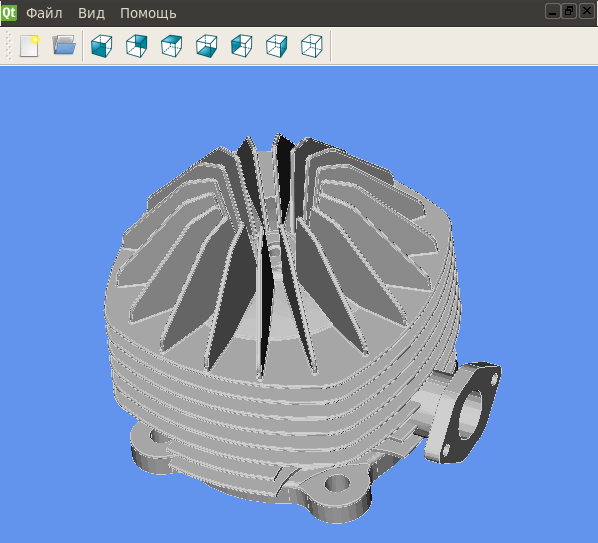
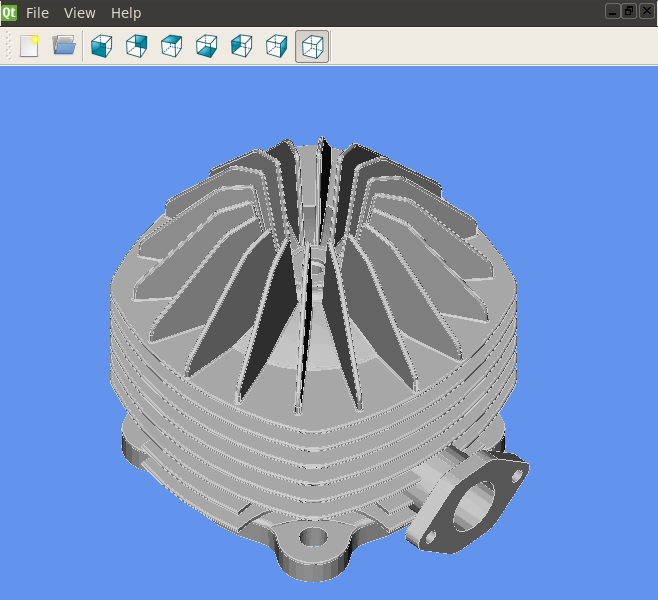
View commands. Rename command names. New screenshot

Changed region(s): [[0.1505, 0.2063, 0.8428, 0.9724], [0.0, 0.0, 1.0, 0.1473]]

diff --git a/src/gui/mainwindow_ui.cpp b/src/gui/mainwindow_ui.cpp
@@ -45,7 +45,7 @@ void MainWindow::createUI() {
     connect(mdiArea, SIGNAL(subWindowActivated(QMdiSubWindow*)),
         this, SLOT(childWindowActivated(QMdiSubWindow*)));
 
-    commandDock = new QDockWidget(tr("Команда"), this);
+    commandDock = new QDockWidget(tr("Command"), this);
     commandDock->setVisible(false);
     commandDock->setFeatures(QDockWidget::NoDockWidgetFeatures);
     commandDock->setAllowedAreas(Qt::RightDockWidgetArea);
@@ -58,7 +58,7 @@ void MainWindow::createUI() {
 }
 
 void MainWindow::createDockWidget() {
-    shapesDock = new QDockWidget(tr("Объекты"), this);
+    shapesDock = new QDockWidget(tr("Objects"), this);
     shapesDock->setAllowedAreas(Qt::LeftDockWidgetArea | Qt::RightDockWidgetArea);
     addDockWidget(Qt::LeftDockWidgetArea, shapesDock);
 
@@ -75,7 +75,7 @@ void MainWindow::createMenu() {
     setMenuBar(mainMenuBar);
 
     fileMenu = new QMenu(mainMenuBar);
-    fileMenu->setTitle(tr("Файл"));
+    fileMenu->setTitle(tr("File"));
     mainMenuBar->addMenu(fileMenu);
 
     /*QMenu* selectionMenu = new QMenu(mainMenuBar);
@@ -115,11 +115,11 @@ void MainWindow::createMenu() {
     selectionGroup->addAction(acSelectSolid);*/
 
     viewMenu = new QMenu(mainMenuBar);
-    viewMenu->setTitle(tr("Вид"));
+    viewMenu->setTitle(tr("View"));
     mainMenuBar->addMenu(viewMenu);
 
     helpMenu = new QMenu(mainMenuBar);
-    helpMenu->setTitle(tr("Помощь"));
+    helpMenu->setTitle(tr("Help"));
     mainMenuBar->addMenu(helpMenu);
 
     mainToolBar = new QToolBar(this);
@@ -129,13 +129,13 @@ void MainWindow::createMenu() {
 void MainWindow::createCommonActions() {
     acListViewType = new ActionList(this);
 
-    QAction* acExit = new QAction(tr("Выход"), this);
+    QAction* acExit = new QAction(tr("Exit"), this);
     connect(acExit, SIGNAL(triggered(bool)), qApp, SLOT(quit()));
 
-    QAction* acOpenModel = new QAction(QIcon(":/icons/open_document.png"), tr("Открыть..."), this);
+    QAction* acOpenModel = new QAction(QIcon(":/icons/open_document.png"), tr("Open..."), this);
     connect(acOpenModel, SIGNAL(triggered(bool)), this, SLOT(openModel()));
 
-    QAction* acNewModel = new QAction(QIcon(":/icons/new_document.png"), tr("Новый"), this);
+    QAction* acNewModel = new QAction(QIcon(":/icons/new_document.png"), tr("New"), this);
     connect(acNewModel, SIGNAL(triggered(bool)), this, SLOT(newChildWindow()));
 
     fileMenu->addAction(acNewModel);
@@ -147,7 +147,7 @@ void MainWindow::createCommonActions() {
     mainToolBar->addAction(acOpenModel);
     mainToolBar->addSeparator();
 
-    QAction* acAbout = new QAction(tr("О программе..."), this);
+    QAction* acAbout = new QAction(tr("About..."), this);
     connect(acAbout, SIGNAL(triggered(bool)), this, SLOT(about()));
     helpMenu->addAction(acAbout);
 }
@@ -155,7 +155,7 @@ void MainWindow::createCommonActions() {
 void MainWindow::createViewActions() {
     QActionGroup* viewGroup = new QActionGroup(this);
 
-    QAction* acViewFront = new QAction(QIcon(":/icons/view-front.png"), tr("Спереди"), this);
+    QAction* acViewFront = new QAction(QIcon(":/icons/view-front.png"), tr("Front"), this);
     acViewFront->setCheckable(true);
     viewMenu->addAction(acViewFront);
     connect(acViewFront, SIGNAL(triggered()), this, SLOT(viewFront()));
@@ -163,7 +163,7 @@ void MainWindow::createViewActions() {
     mainToolBar->addAction(acViewFront);
     acListViewType->addAction(acViewFront);
 
-    QAction* acViewBack = new QAction(QIcon(":/icons/view-back.png"), tr("Сзади"), this);
+    QAction* acViewBack = new QAction(QIcon(":/icons/view-back.png"), tr("Back"), this);
     acViewBack->setCheckable(true);
     viewMenu->addAction(acViewBack);
     connect(acViewBack, SIGNAL(triggered()), this, SLOT(viewBack()));
@@ -171,7 +171,7 @@ void MainWindow::createViewActions() {
     mainToolBar->addAction(acViewBack);
     acListViewType->addAction(acViewBack);
 
-    QAction* acViewTop = new QAction(QIcon(":/icons/view-top.png"), tr("Сверху"), this);
+    QAction* acViewTop = new QAction(QIcon(":/icons/view-top.png"), tr("Top"), this);
     acViewTop->setCheckable(true);
     viewMenu->addAction(acViewTop);
     connect(acViewTop, SIGNAL(triggered()), this, SLOT(viewTop()));
@@ -179,7 +179,7 @@ void MainWindow::createViewActions() {
     mainToolBar->addAction(acViewTop);
     acListViewType->addAction(acViewTop);
 
-    QAction* acViewBottom = new QAction(QIcon(":/icons/view-bottom.png"), tr("Снизу"), this);
+    QAction* acViewBottom = new QAction(QIcon(":/icons/view-bottom.png"), tr("Bottom"), this);
     acViewBottom->setCheckable(true);
     viewMenu->addAction(acViewBottom);
     connect(acViewBottom, SIGNAL(triggered()), this, SLOT(viewBottom()));
@@ -187,7 +187,7 @@ void MainWindow::createViewActions() {
     mainToolBar->addAction(acViewBottom);
     acListViewType->addAction(acViewBottom);
 
-    QAction* acViewLeft = new QAction(QIcon(":/icons/view-left.png"), tr("Слева"), this);
+    QAction* acViewLeft = new QAction(QIcon(":/icons/view-left.png"), tr("Left"), this);
     acViewLeft->setCheckable(true);
     viewMenu->addAction(acViewLeft);
     connect(acViewLeft, SIGNAL(triggered()), this, SLOT(viewLeft()));
@@ -195,7 +195,7 @@ void MainWindow::createViewActions() {
     mainToolBar->addAction(acViewLeft);
     acListViewType->addAction(acViewLeft);
 
-    QAction* acViewRight = new QAction(QIcon(":/icons/view-right.png"), tr("Справа"), this);
+    QAction* acViewRight = new QAction(QIcon(":/icons/view-right.png"), tr("Right"), this);
     acViewRight->setCheckable(true);
     viewMenu->addAction(acViewRight);
     connect(acViewRight, SIGNAL(triggered()), this, SLOT(viewRight()));
@@ -203,7 +203,7 @@ void MainWindow::createViewActions() {
     mainToolBar->addAction(acViewRight);
     acListViewType->addAction(acViewRight);
 
-    QAction* acAxometric = new QAction(QIcon(":/icons/view-axometric.png"), tr("Аксометрически"), this);
+    QAction* acAxometric = new QAction(QIcon(":/icons/view-axometric.png"), tr("Axonometric"), this);
     acAxometric->setCheckable(true);
     viewMenu->addAction(acAxometric);
     connect(acAxometric, SIGNAL(triggered()), this, SLOT(viewAxometric()));
@@ -211,7 +211,7 @@ void MainWindow::createViewActions() {
     mainToolBar->addAction(acAxometric);
     acListViewType->addAction(acAxometric);
 
-    QAction* acViewAll = new QAction(QIcon(":/icons/view-all.png"), tr("Смотреть всё"), this);
+    QAction* acViewAll = new QAction(QIcon(":/icons/view-all.png"), tr("View all"), this);
     viewMenu->addAction(acViewAll);
     connect(acViewAll, SIGNAL(triggered()), this, SLOT(viewAll()));
     acListViewType->addAction(acViewAll);

diff --git a/src/gui/viewer/inventor/inventorviewer.cpp b/src/gui/viewer/inventor/inventorviewer.cpp
@@ -51,6 +51,8 @@ public:
 
     void addShape(Shape::SharedPtr shape);
 
+    void setCameraOrientation(const SbRotation& rotation);
+
 private:
     static void eventCallback(void* data, SoEventCallback* callback);
     static void selectionCallback(void* data, SoPath* path);
@@ -93,6 +95,10 @@ void InventorViewerImpl::addShape(Shape::SharedPtr shape) {
     viewAll();
 }
 
+void InventorViewerImpl::setCameraOrientation(const SbRotation& rotation) {
+    getCamera()->orientation.setValue(rotation);
+}
+
 InventorViewer::InventorViewer(Gui::Model::SharedPtr model) :
     Viewer(model), impl(boost::make_shared<InventorViewerImpl>()) {
 }
@@ -103,6 +109,37 @@ const QWidget* InventorViewer::getWidget() const {
 
 QWidget* InventorViewer::getWidget() {
     return impl->getWidget();
+}
+
+void InventorViewer::viewFront() {
+    float root = sqrtf(2.0) / 2.0;
+    impl->setCameraOrientation(SbRotation(-root, 0, 0, -root));
+}
+
+void InventorViewer::viewBack() {
+    float root = sqrtf(2.0) / 2.0;
+    impl->setCameraOrientation(SbRotation(0, root, root, 0));
+}
+
+void InventorViewer::viewTop() {
+    impl->setCameraOrientation(SbRotation(0, 0, 0, 1));
+}
+
+void InventorViewer::viewBottom() {
+    impl->setCameraOrientation(SbRotation(-1, 0, 0, 0));
+}
+
+void InventorViewer::viewLeft() {
+    impl->setCameraOrientation(SbRotation(-0.5, 0, 0, -0.5));
+}
+
+void InventorViewer::viewRight() {
+    impl->setCameraOrientation(SbRotation(0.5, 0, 0, 0.5));
+}
+
+void InventorViewer::viewAxometric() {
+    impl->setCameraOrientation(SbRotation
+        (-0.353553f, -0.146447f, -0.353553f, -0.853553f));
 }
 
 void InventorViewer::viewAll() {

diff --git a/src/gui/view.cpp b/src/gui/view.cpp
@@ -16,7 +16,6 @@
 
 #include "view.h"
 
-#include <QDebug>
 #include <QHBoxLayout>
 
 #include <algorithm>
@@ -45,34 +44,32 @@ void View::createUI() {
 }
 
 void View::viewFront() {
-    //float root = sqrtf(2.0) / 2.0;
-    //viewer->setCameraOrientation(SbRotation(-root, 0, 0, -root));
+    viewer->viewFront();
     viewer->viewAll();
 }
 
 void View::viewBack() {
-    //float root = sqrtf(2.0) / 2.0;
-    //viewer->setCameraOrientation(SbRotation(0, root, root, 0));
+    viewer->viewBack();
     viewer->viewAll();
 }
 
 void View::viewTop() {
-    //viewer->setCameraOrientation(SbRotation(0, 0, 0, 1));
+    viewer->viewTop();
     viewer->viewAll();
 }
 
 void View::viewBottom() {
-    //viewer->setCameraOrientation(SbRotation(-1, 0, 0, 0));
+    viewer->viewBottom();
     viewer->viewAll();
 }
 
 void View::viewLeft() {
-    //viewer->setCameraOrientation(SbRotation(-0.5, 0, 0, -0.5));
+    viewer->viewLeft();
     viewer->viewAll();
 }
 
 void View::viewRight() {
-    //viewer->setCameraOrientation(SbRotation(0.5, 0, 0, 0.5));
+    viewer->viewRight();
     viewer->viewAll();
 }
 
@@ -81,8 +78,7 @@ void View::viewAll() {
 }
 
 void View::viewAxometric() {
-    //viewer->setCameraOrientation(SbRotation
-        //(-0.353553f, -0.146447f, -0.353553f, -0.853553f));
+    viewer->viewAxometric();
     viewer->viewAll();
 }
 

diff --git a/src/gui/viewer/occ/opencascadeviewer.cpp b/src/gui/viewer/occ/opencascadeviewer.cpp
@@ -70,6 +70,10 @@ public:
             cascadeViewer(aViewer), firstPaint(true) {
     }
 
+    Handle(V3d_View) getView() const {
+        return view;
+    }
+
 protected:
     void paintEvent(QPaintEvent*);
 
@@ -156,7 +160,38 @@ QWidget* OpenCASCADEViewer::getWidget() {
     return viewerWidget.get();
 }
 
+void OpenCASCADEViewer::viewFront() {
+    viewerWidget->getView()->SetProj(V3d_Xpos);
+}
+
+void OpenCASCADEViewer::viewBack() {
+    viewerWidget->getView()->SetProj(V3d_Xneg);
+}
+
+void OpenCASCADEViewer::viewTop() {
+    viewerWidget->getView()->SetProj(V3d_Zpos);
+}
+
+void OpenCASCADEViewer::viewBottom() {
+    viewerWidget->getView()->SetProj(V3d_Zneg);
+}
+
+void OpenCASCADEViewer::viewLeft() {
+    viewerWidget->getView()->SetProj(V3d_Ypos);
+}
+
+void OpenCASCADEViewer::viewRight() {
+    viewerWidget->getView()->SetProj(V3d_Yneg);
+}
+
+void OpenCASCADEViewer::viewAxometric() {
+    viewerWidget->getView()->SetProj(V3d_XposYnegZpos);
+}
+
 void OpenCASCADEViewer::viewAll() {
+    viewerWidget->getView()->FitAll();
+    viewerWidget->getView()->ZFitAll();
+    viewerWidget->getView()->Redraw();
 }
 
 void OpenCASCADEViewer::shapeAdded(Modeling::Shape::SharedPtr shape) {

diff --git a/src/gui/viewer/viewer.h b/src/gui/viewer/viewer.h
@@ -45,6 +45,13 @@ public:
     virtual const QWidget* getWidget() const = 0;
     virtual QWidget* getWidget() = 0;
 
+    virtual void viewFront() = 0;
+    virtual void viewBack() = 0;
+    virtual void viewTop() = 0;
+    virtual void viewBottom() = 0;
+    virtual void viewLeft() = 0;
+    virtual void viewRight() = 0;
+    virtual void viewAxometric() = 0;
     virtual void viewAll() = 0;
 
     static Viewer::SharedPtr create(Gui::Model::SharedPtr model);

diff --git a/src/gui/viewer/inventor/inventorviewer.h b/src/gui/viewer/inventor/inventorviewer.h
@@ -38,6 +38,14 @@ public:
 
     virtual const QWidget* getWidget() const;
     virtual QWidget* getWidget();
+
+    virtual void viewFront();
+    virtual void viewBack();
+    virtual void viewTop();
+    virtual void viewBottom();
+    virtual void viewLeft();
+    virtual void viewRight();
+    virtual void viewAxometric();
     virtual void viewAll();
 
 private:

diff --git a/src/gui/viewer/occ/opencascadeviewer.h b/src/gui/viewer/occ/opencascadeviewer.h
@@ -44,6 +44,14 @@ public:
 
     virtual const QWidget* getWidget() const;
     virtual QWidget* getWidget();
+
+    virtual void viewFront();
+    virtual void viewBack();
+    virtual void viewTop();
+    virtual void viewBottom();
+    virtual void viewLeft();
+    virtual void viewRight();
+    virtual void viewAxometric();
     virtual void viewAll();
 
 private:

diff --git a/src/gui/viewer/inventor/inventorshape.cpp b/src/gui/viewer/inventor/inventorshape.cpp
@@ -49,8 +49,6 @@
 
 #include <vector>
 
-#include <QDebug>
-
 namespace {
 
 void getIndexedVerts(const TopoDS_Face& face, std::vector<SbVec3f>& vertices,
